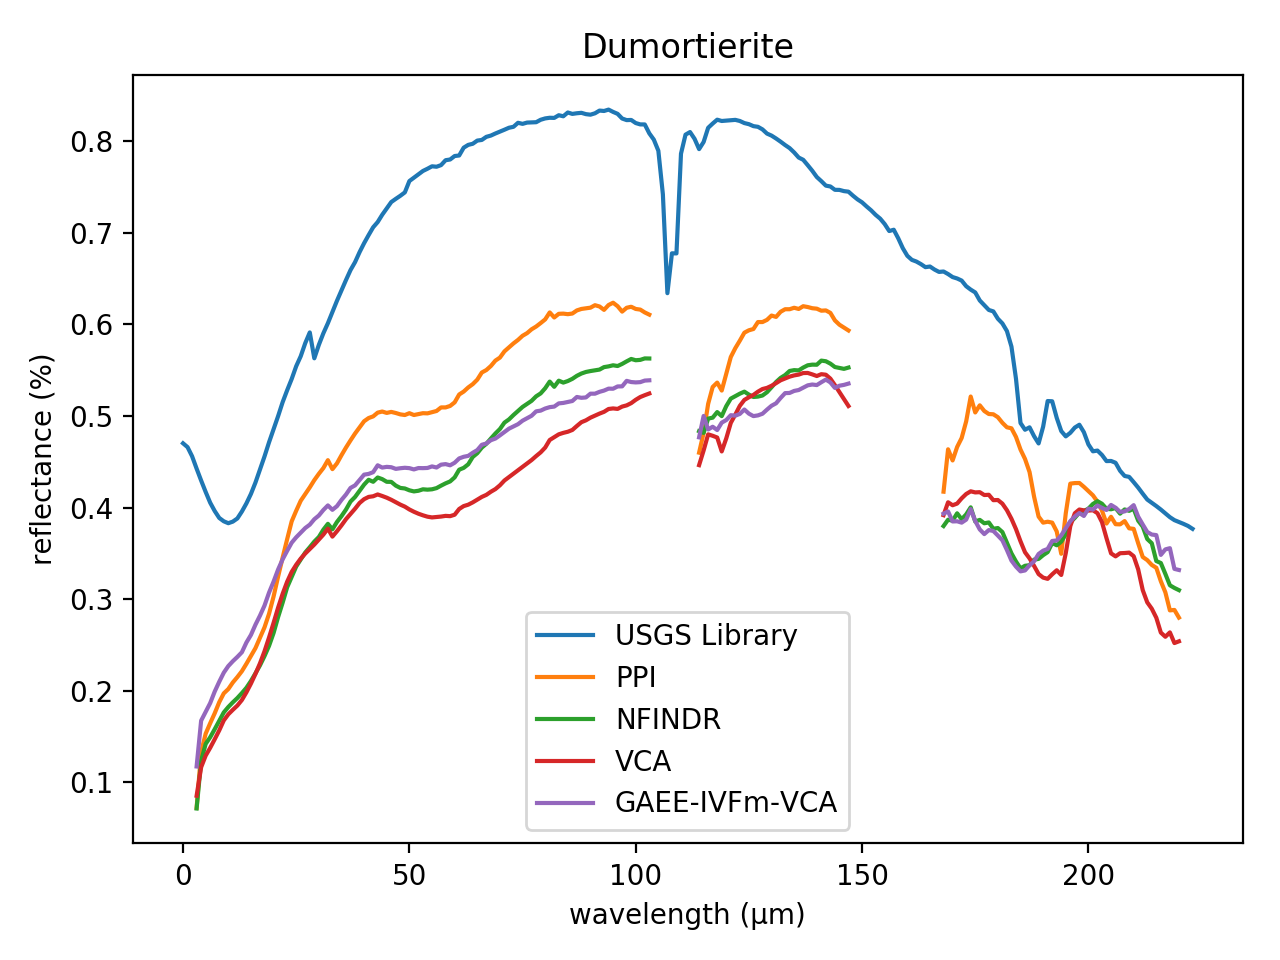
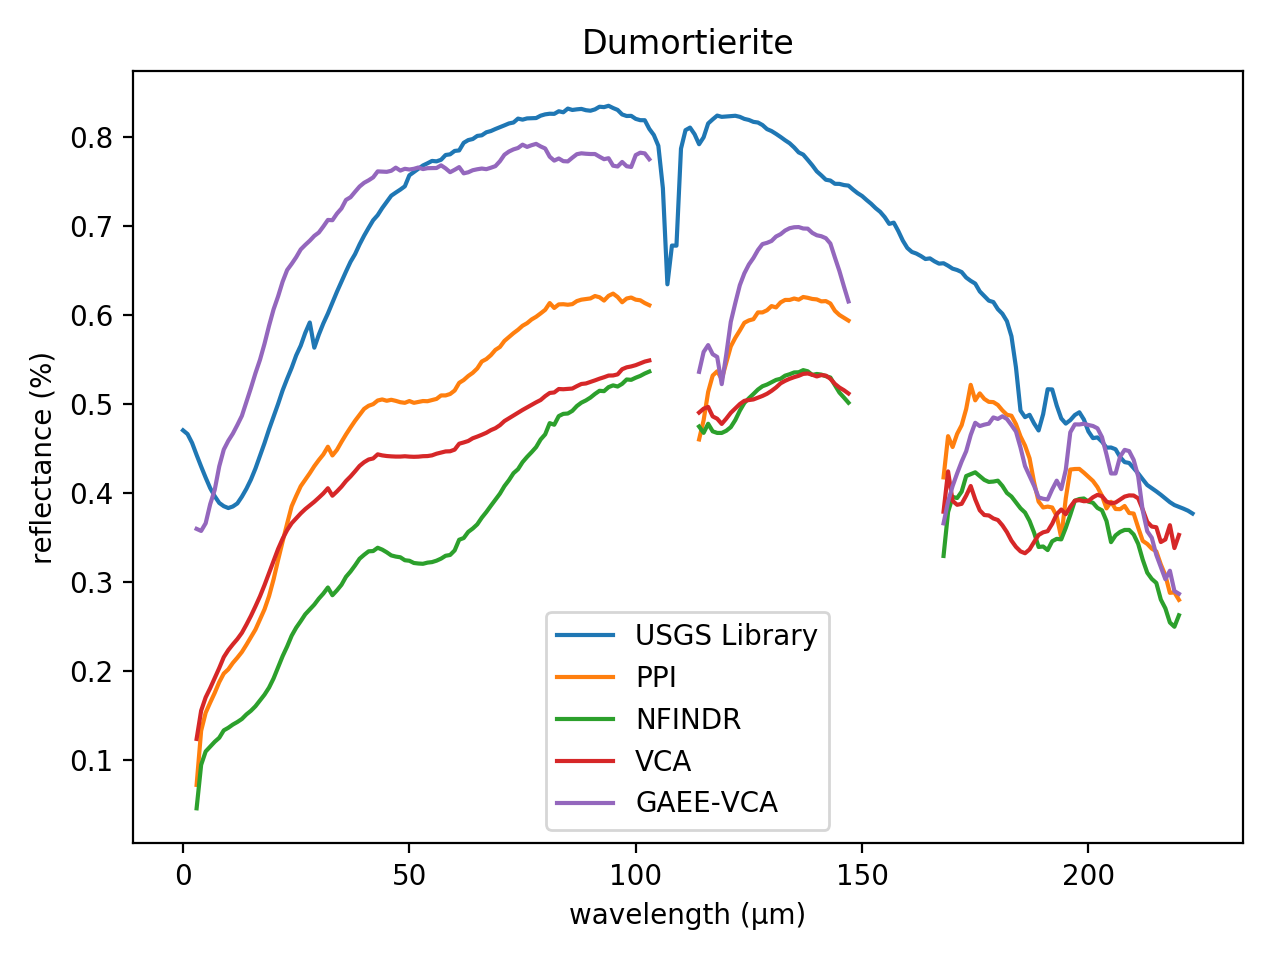
results

diff --git a/README.md b/README.md
@@ -6,7 +6,7 @@ Endmember Extraction is a critical step in hyperspectral image analysis and clas
 
 **Envirionment Setup:**
 
-Monte Carlo runs: 1 
+Monte Carlo runs: 10 
 
 Number of endmembers to estimate: 12 
 
@@ -18,10 +18,10 @@ Maximum number of iterations (N-FINDR): 36
 
 | Parameters            |   GAEE |   GAEE-IVFm |   GAEE-VCA |   GAEE-IVFm-VCA |
 |:----------------------|-------:|------------:|-----------:|----------------:|
-| Population Size       |  100   |       100   |      100   |           100   |
-| Number of Generations |  250   |       250   |      250   |           250   |
-| Crossover Probability |    1   |         1   |        1   |             1   |
-| Mutation Probability  |    0.3 |         0.3 |        0.3 |             0.3 |
+| Population Size       |  100   |      100    |      100   |           100   |
+| Number of Generations |  250   |      250    |      250   |           250   |
+| Crossover Probability |    0.7 |        1    |        0.7 |             0.7 |
+| Mutation Probability  |    0.1 |        0.05 |        0.3 |             0.3 |
 
 ![alt text](./IMAGES/Convergence.png)
 
@@ -29,55 +29,55 @@ Maximum number of iterations (N-FINDR): 36
 
 | Endmembers       |    PPI |   NFINDR |    VCA |   GAEE |   GAEE-IVFm |   GAEE-VCA |   GAEE-IVFm-VCA |
 |:-----------------|-------:|---------:|-------:|-------:|------------:|-----------:|----------------:|
-| Alunite          | 0.3744 |   0.1127 | 0.1086 | 0.0989 |      0.1043 |     **0.0952** |          **0.0952** |
-| Andradite        | 0.0758 |   0.2068 | **0.0574** | 0.0693 |      0.0837 |     0.0732 |          0.0705 |
-| Buddingtonite    | 0.2081 |   0.1205 | 0.0824 | 0.1225 |      0.1170 |     0.1502 |          **0.0762** |
-| Dumortierite     | 0.1907 |   **0.0720** | 0.1167 | 0.0929 |      **0.0720** |     0.0721 |          0.0721 |
-| Kaolinite_1      | **0.0795** |   0.0870 | 0.0893 | 0.1181 |      0.0870 |     0.0811 |          0.0811 |
-| Kaolinite_2      | 0.0820 |   0.0992 | 0.0674 | **0.0480** |      0.0658 |     0.0936 |          0.0746 |
-| Muscovite        | 0.2506 |   **0.0983** | 0.2288 | 0.1449 |      0.1694 |     0.2046 |          0.1766 |
-| Montmonrillonite | 0.1338 |   **0.0646** | 0.0893 | 0.0658 |      0.0660 |     **0.0646** |          0.0694 |
-| Nontronite       | 0.1033 |   0.0806 | 0.0799 | 0.0758 |      **0.0729** |     0.0806 |          0.0870 |
-| Pyrope           | **0.0579** |   0.0865 | 0.1714 | 0.0714 |      0.0835 |     0.1942 |          0.0744 |
-| Sphene           | 0.0673 |   **0.0542** | 0.0692 | 0.3481 |      0.2112 |     0.0770 |          0.2213 |
-| Chalcedony       | 0.0871 |   0.0762 | 0.0878 | 0.0923 |      **0.0699** |     0.0752 |          0.0752 |
+| Alunite          | 0.3744 |   0.1075 | 0.1016 | 0.1112 |      0.1112 |     **0.0926** |          **0.0926** |
+| Andradite        | 0.0758 |   0.0911 | 0.0778 | **0.0609** |      0.0796 |     0.0863 |          0.0917 |
+| Buddingtonite    | 0.2081 |   **0.0762** | 0.0824 | 0.0937 |      0.0798 |     **0.0762** |          **0.0762** |
+| Dumortierite     | 0.1907 |   0.0706 | **0.0702** | 0.0894 |      0.0835 |     0.0706 |          0.0706 |
+| Kaolinite_1      | **0.0795** |   0.0870 | 0.0862 | 0.1140 |      0.0875 |     0.1014 |          0.1196 |
+| Kaolinite_2      | 0.0820 |   0.0992 | 0.0811 | 0.0628 |      0.0813 |     0.0737 |          **0.0606** |
+| Muscovite        | 0.2506 |   0.1587 | 0.1084 | 0.1531 |      **0.1009** |     0.1788 |          0.1548 |
+| Montmonrillonite | 0.1338 |   0.0677 | 0.0698 | 0.0664 |      0.0664 |     **0.0619** |          **0.0619** |
+| Nontronite       | 0.1033 |   0.0806 | **0.0722** | 0.0758 |      0.0823 |     0.0795 |          0.1011 |
+| Pyrope           | 0.0579 |   0.0767 | 0.1729 | 0.0535 |      0.1028 |     **0.0509** |          0.0579 |
+| Sphene           | 0.0673 |   **0.0654** | 0.0834 | 0.0814 |      0.0687 |     0.0826 |          0.0927 |
+| Chalcedony       | 0.0871 |   0.0948 | 0.0761 | 0.0774 |      **0.0623** |     0.0752 |          0.0752 |
 
 ### SAM Statistics for Cuprite Dataset. 
 
-| Statistics   |      PPI |   NFINDR |      VCA |     GAEE |   GAEE-IVFm |   GAEE-VCA |   GAEE-IVFm-VCA |
-|:-------------|---------:|---------:|---------:|---------:|------------:|-----------:|----------------:|
-| _Mean_       |   0.1425 |   **0.0966** |   0.1040 |   0.1123 |      0.1002 |     0.1051 |          0.0978 |
-| _Std_        |   **0.0000** |   **0.0000** |   **0.0000** |   **0.0000** |      **0.0000** |     **0.0000** |          **0.0000** |
-| _p-value_    | **nan**      | **nan**      | **nan**      | **nan**      |    **nan**      |   **nan**      |        **nan**      |
-| Gain         |  31.3952 |  **-1.2719** |   5.9801 |  12.9356 |      2.4445 |     6.9874 |          0.0000 |
-| _Time_       |   4.5994 |  57.5599 |   **0.5803** |   6.9029 |     15.6723 |     6.8193 |         15.9504 |
+| Statistics   |      PPI |   NFINDR |    VCA |    GAEE |   GAEE-IVFm |   GAEE-VCA |   GAEE-IVFm-VCA |
+|:-------------|---------:|---------:|-------:|--------:|------------:|-----------:|----------------:|
+| _Mean_       |   0.1425 |   0.1012 | 0.0996 |  0.1022 |      0.1004 |     **0.0966** |          0.1005 |
+| _Std_        |   **0.0000** |   0.0227 | 0.0243 |  0.0256 |      0.0223 |     0.0148 |          0.0170 |
+| _p-value_    | -15.9309 |  -0.4281 | 0.0000 | -0.7551 |     **-0.2328** |     0.8653 |         -0.2714 |
+| Gain         |  32.2290 |   4.5119 | 3.0062 |  5.4635 |      3.8298 |     **0.0000** |          3.8609 |
+| _Time_       |   2.2118 |   8.4757 | **0.5226** |  2.4932 |      5.7155 |     2.5397 |          5.7591 |
 
 ### Comparison between the ground-truth Laboratory Reflectances and extracted endmembers using PPI, N-FINDR, VCA, GAEE, GAEE-IVFm using SID for the Cuprite Dataset.
 
 | Endmembers       |    PPI |   NFINDR |    VCA |   GAEE |   GAEE-IVFm |   GAEE-VCA |   GAEE-IVFm-VCA |
 |:-----------------|-------:|---------:|-------:|-------:|------------:|-----------:|----------------:|
-| Alunite          | **0.0000** |   **0.0000** | 0.0147 | **0.0000** |      **0.0000** |     **0.0000** |          **0.0000** |
-| Andradite        | **0.0000** |   **0.0000** | 0.0052 | 0.0061 |      **0.0000** |     0.0086 |          0.0060 |
-| Buddingtonite    | 0.0477 |   0.0196 | 0.0080 | 0.0181 |      0.0165 |     0.0301 |          **0.0072** |
-| Dumortierite     | 0.0562 |   **0.0069** | 0.0159 | 0.0120 |      **0.0069** |     0.0075 |          0.0075 |
-| Kaolinite_1      | **0.0114** |   0.0131 | 0.0143 | 0.0164 |      0.0131 |     0.0126 |          0.0126 |
-| Kaolinite_2      | 0.0114 |   0.0131 | 0.0055 | **0.0031** |      0.0061 |     0.0102 |          0.0084 |
-| Muscovite        | 0.0969 |   **0.0113** | 0.1015 | 0.0250 |      0.0285 |     0.0290 |          0.0290 |
-| Montmonrillonite | 0.0230 |   **0.0047** | 0.0103 | 0.0052 |      0.0050 |     **0.0047** |          0.0061 |
-| Nontronite       | 0.0126 |   0.0093 | 0.0075 | 0.0078 |      **0.0072** |     0.0093 |          0.0100 |
-| Pyrope           | **0.0071** |   0.0890 | 0.0335 | 0.0647 |      0.0270 |     0.0420 |          0.0209 |
-| Sphene           | **0.0076** |   0.1331 | 0.0092 | 0.1581 |      0.0706 |     0.0652 |          0.0529 |
-| Chalcedony       | 0.0088 |   0.0077 | 0.0090 | 0.0117 |      **0.0058** |     0.0067 |          0.0067 |
+| Alunite          | **0.0000** |   **0.0000** | 0.0133 | **0.0000** |      **0.0000** |     **0.0000** |          **0.0000** |
+| Andradite        | **0.0000** |   0.0092 | 0.0071 | 0.0071 |      **0.0000** |     0.0082 |          0.0090 |
+| Buddingtonite    | 0.0477 |   0.0211 | 0.0080 | 0.0193 |      0.0219 |     **0.0072** |          **0.0072** |
+| Dumortierite     | 0.0562 |   0.0071 | **0.0069** | 0.0077 |      0.0125 |     0.0071 |          0.0071 |
+| Kaolinite_1      | 0.0114 |   0.0131 | **0.0089** | 0.0133 |      0.0132 |     0.0166 |          0.0177 |
+| Kaolinite_2      | 0.0114 |   0.0082 | 0.0076 | 0.0055 |      **0.0032** |     0.0101 |          0.0052 |
+| Muscovite        | 0.0969 |   0.0267 | 0.0148 | 0.0284 |      **0.0113** |     0.0317 |          0.0317 |
+| Montmonrillonite | 0.0230 |   **0.0049** | 0.0059 | 0.0051 |      0.0052 |     **0.0049** |          **0.0049** |
+| Nontronite       | 0.0126 |   0.0083 | **0.0071** | 0.0088 |      0.0095 |     0.0119 |          0.0119 |
+| Pyrope           | 0.0071 |   0.0625 | 0.0419 | **0.0061** |      0.0108 |     0.0438 |          0.0389 |
+| Sphene           | **0.0076** |   0.0943 | 0.0096 | 0.0383 |      0.0408 |     0.0090 |          0.0104 |
+| Chalcedony       | 0.0088 |   0.0104 | 0.0069 | **0.0042** |      0.0051 |     0.0067 |          0.0067 |
 
 ### SID Statistics for Cuprite Dataset. 
 
-| Statistics   |      PPI |   NFINDR |      VCA |     GAEE |   GAEE-IVFm |   GAEE-VCA |   GAEE-IVFm-VCA |
-|:-------------|---------:|---------:|---------:|---------:|------------:|-----------:|----------------:|
-| _Mean_       |   0.0236 |   0.0256 |   0.0196 |   0.0273 |      0.0156 |     0.0188 |          **0.0139** |
-| _Std_        |   **0.0000** |   **0.0000** |   **0.0000** |   **0.0000** |      **0.0000** |     **0.0000** |          **0.0000** |
-| _p-value_    | **nan**      | **nan**      | **nan**      | **nan**      |    **nan**      |   **nan**      |        **nan**      |
-| Gain         |  31.3952 |  **-1.2719** |   5.9801 |  12.9356 |      2.4445 |     6.9874 |          0.0000 |
-| _Time_       |   4.5994 |  57.5599 |   **0.5803** |   6.9029 |     15.6723 |     6.8193 |         15.9504 |
+| Statistics   |     PPI |   NFINDR |     VCA |   GAEE |   GAEE-IVFm |   GAEE-VCA |   GAEE-IVFm-VCA |
+|:-------------|--------:|---------:|--------:|-------:|------------:|-----------:|----------------:|
+| _Mean_       |  0.0236 |   0.0258 |  0.0161 | **0.0148** |      0.0166 |     0.0163 |          0.0205 |
+| _Std_        |  **0.0000** |   0.0056 |  0.0099 | 0.0071 |      0.0082 |     0.0060 |          0.0079 |
+| _p-value_    | -4.6358 |  -5.6933 |  0.0000 | 0.7856 |     -0.2904 |    **-0.0764** |         -1.7339 |
+| Gain         | 28.3124 |  **-1.0066** | -2.5993 | 0.0000 |     -1.7281 |    -5.7792 |         -1.6952 |
+| _Time_       |  2.2118 |   8.4757 |  **0.5226** | 2.4932 |      5.7155 |     2.5397 |          5.7591 |
 
 ![alt text](./IMAGES/Alunite_Endmember.png)
 
